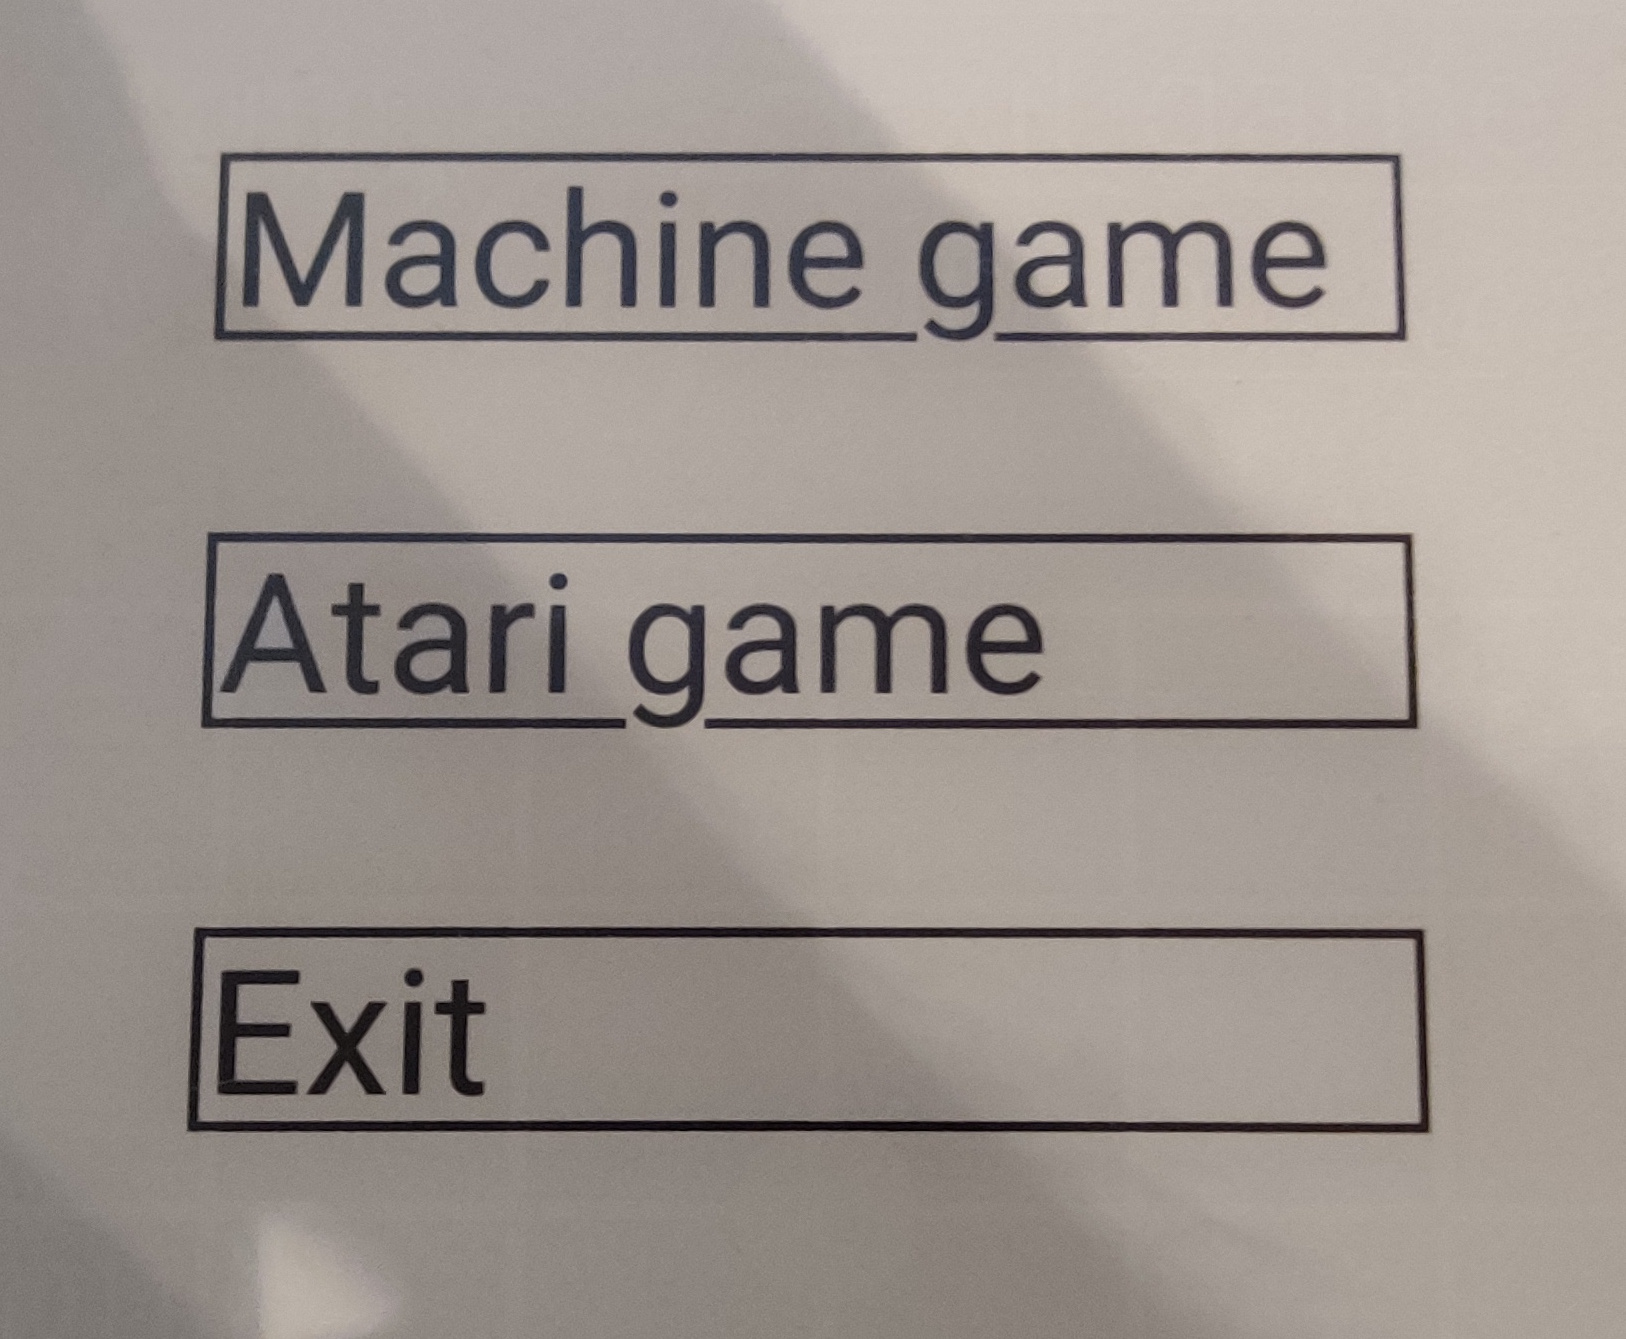
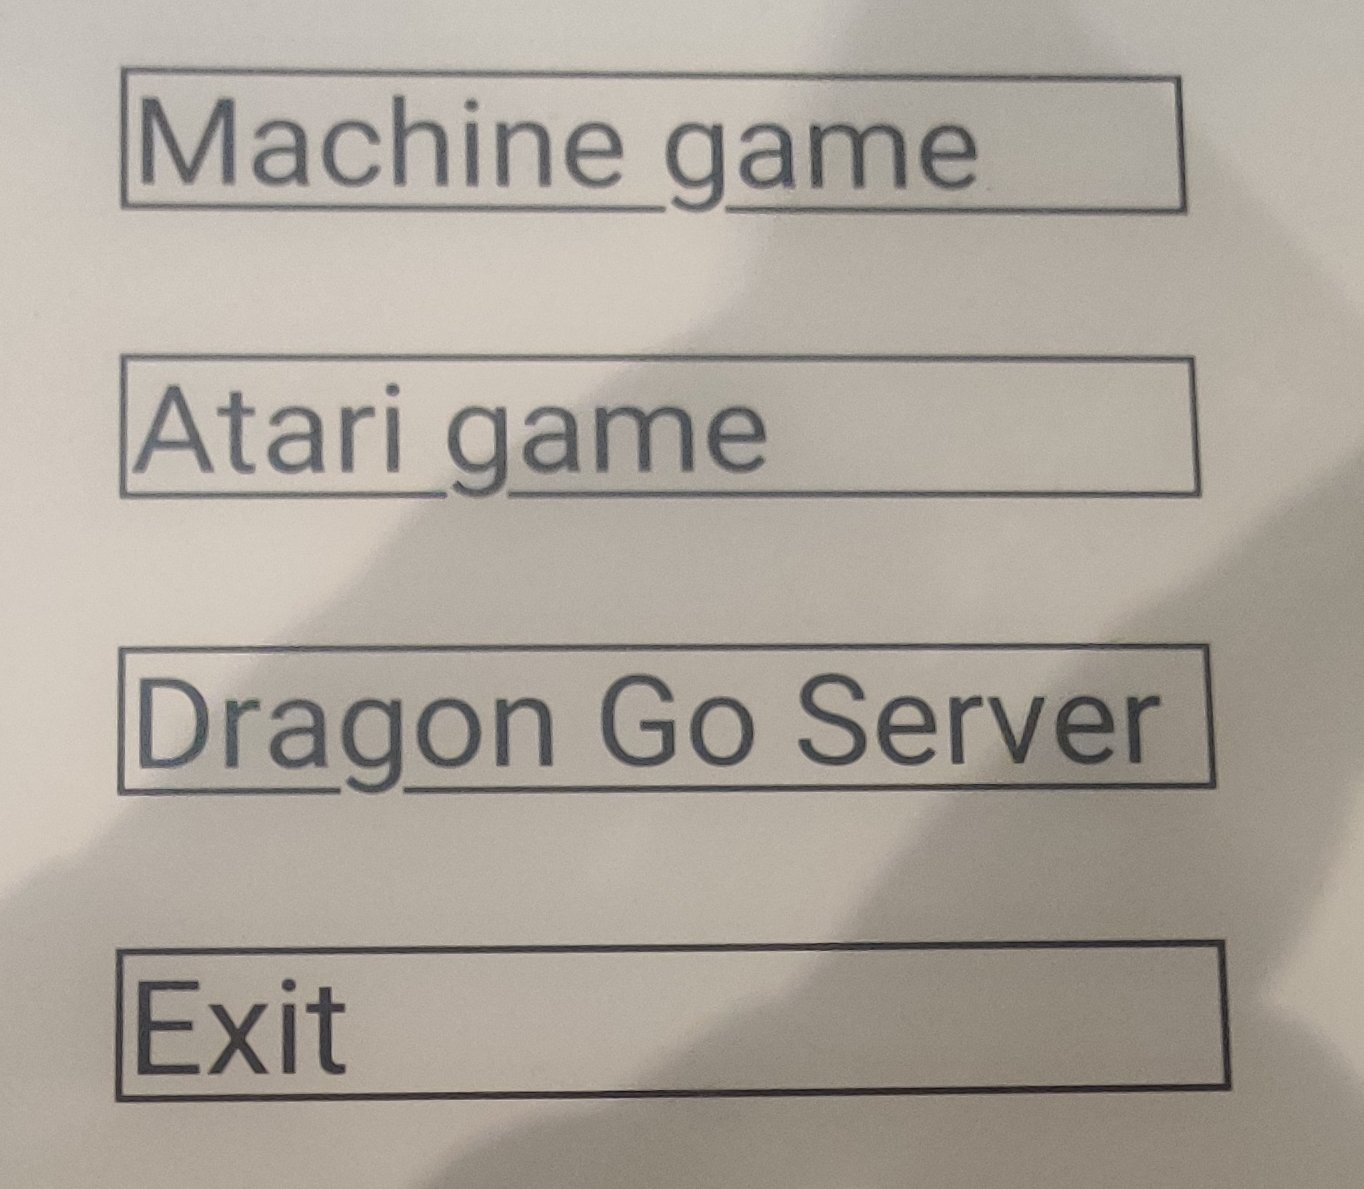
Add dragon game screenshots

diff --git a/README.md b/README.md
@@ -2,7 +2,7 @@
 
 [Fuseki](https://senseis.xmp.net/?Fuseki) is a Go frontend for Remarkable tablets. It uses a copy of [GNU Go](https://github.com/palfrey/gnugo) to do most of the engine work, running locally on the tablets, with a few patches for cross-compiling. Note this has all only been tested on a Remarkable 1, as hacking a 2 is a moving target (and my 2 is my actually used tablet v.s. the 1 which is just for hacking around).
 
-<table style="border: 0px; border-style: none; border-spacing: 0px" spacing="0"><tr><td><img src="screenshots/start menu.jpg" width="200" /></td><td><img src="screenshots/machine game.jpg" width="200" /></td><td><img src="screenshots/atari game.jpg" width="200" /></tr></table>
+<table style="border: 0px; border-style: none; border-spacing: 0px" spacing="0"><tr><td><img src="screenshots/start menu.jpg" width="200" /></td><td><img src="screenshots/machine game.jpg" width="200" /></td><td><img src="screenshots/atari game.jpg" width="200" /></td><td><img src="screenshots/dragon game.jpg" width="200" /></td></tr></table>
 
 The [Toltec toolchain](https://github.com/toltec-dev/toolchain) is used for the build and we provide [Draft](https://github.com/dixonary/draft-reMarkable?tab=readme-ov-file#draft-remarkable) config for launching.
 
